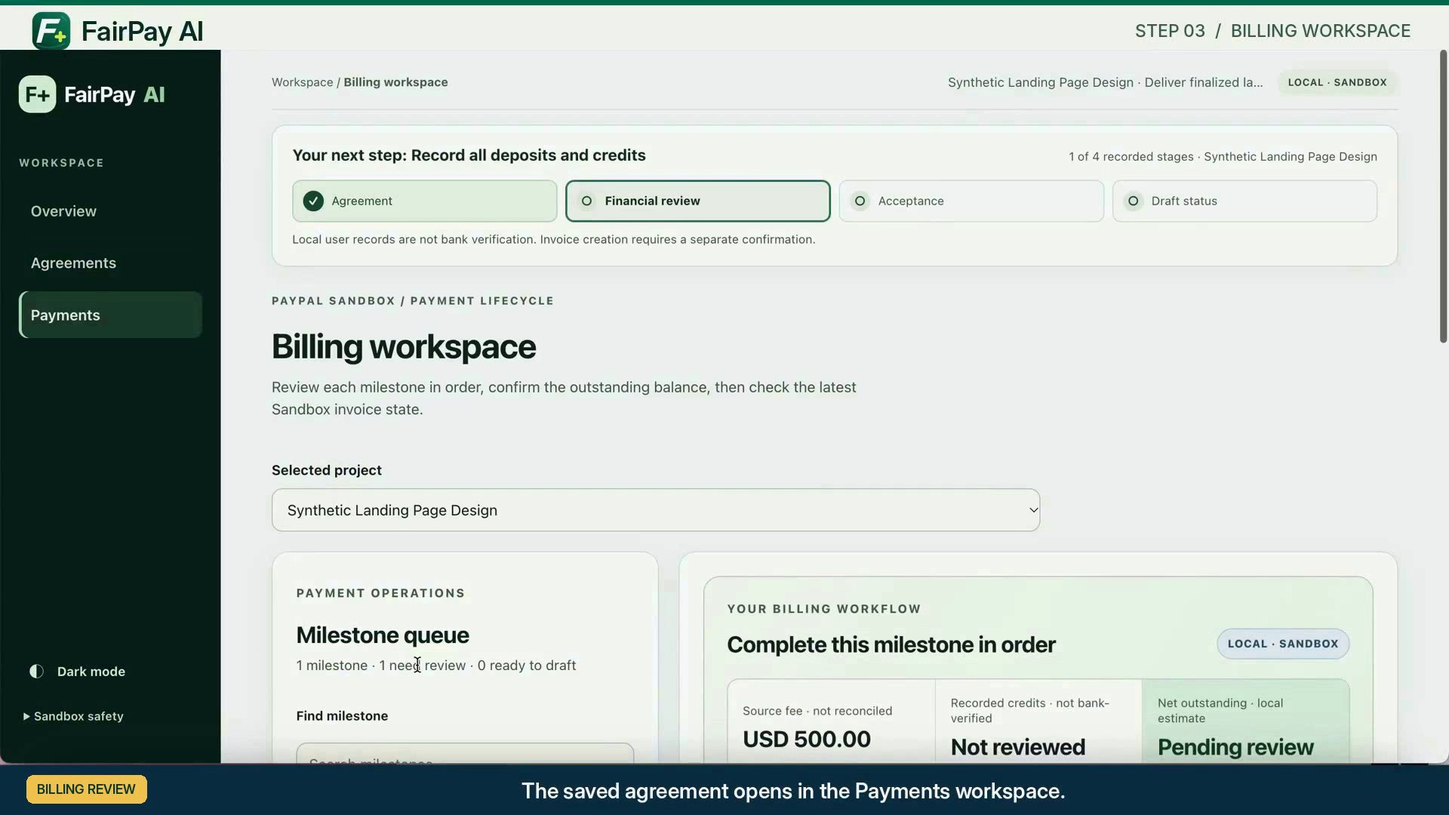
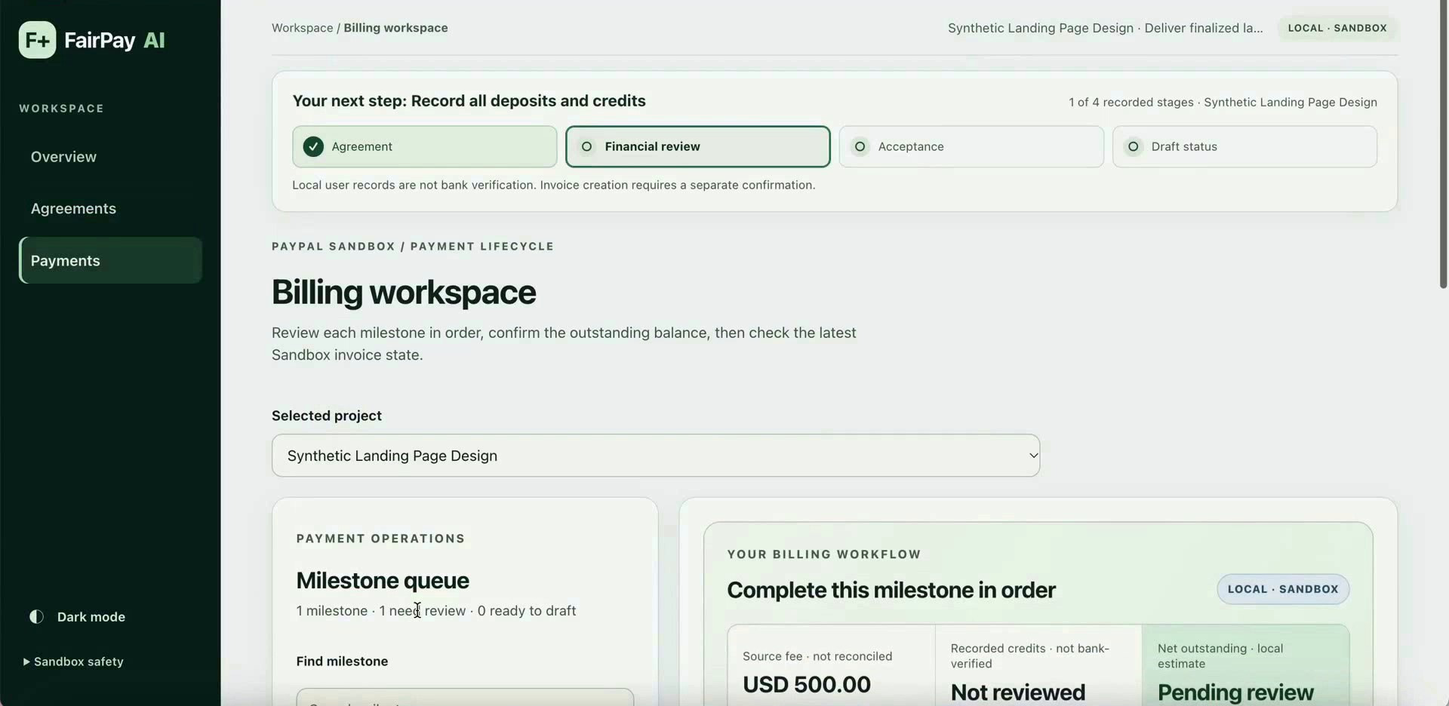
docs: refine judge-facing guides, crop genuine demo still and clarify release labels

diff --git a/FairPay/DEMO_GUIDE.md b/FairPay/DEMO_GUIDE.md
@@ -1,14 +1,29 @@
-# Synthetic demo — no PayPal writes
-1. Launch fresh copy; Projects starts empty. Open Add agreement and select existing sample or paste: “Synthetic review sample. Milestone 1: Deliver one poster for USD 200 after actual client acceptance. No prior payments are asserted by this sample.”
-2. Without Ollama, stop at source intake: this is NOT a complete offline extraction demo. With separately installed local model, analyze, inspect source quote and save with explicit evidence consent.
-3. Billing: record synthetic financial review (all known payments/credits), then separately record acceptance for this fictional example. These are human records, not verified payments/identity.
-4. Review exact net amount and recipient preview. STOP BEFORE CREATE. Do not enter credentials or invoke PayPal.
-5. Offline illustrative outcome: “Synthetic illustration only — DRAFT · Not sent; no provider ID, no API call, no payment.” This sentence is a storyboard, never insert it into project invoice records.
-For an executable isolated mock flow run `node --test tests/v1985-fault-boundaries.test.mjs`: concurrency, ambiguous write, recipient mismatch are tested against local stubs. Terminal test output is not real provider evidence.
+# FairPay AI · Safe reviewer demo
 
+**Audience:** reviewers with a fresh local installation. The samples are fictional. Never use real contracts, live PayPal credentials, or real funds.
 
-## Sprint B reviewer-first demonstration (read-only)
+## Track A · Explore without AI or PayPal
 
-From a brand-new clean install, open Overview → **Preview two safe billing decisions**. Example A shows fictional **USD 500 gross − USD 100 human-recorded deposit = USD 400 calculated outstanding**. Neither the credit nor acceptance is externally verified. Example B shows an **unsigned USD 600→700** fee change requiring verification. Use the two buttons to prefill the editable agreement; **prefill triggers no backend write and no AI analysis**. Review the real output only if Ollama is separately running. If the local model is absent, honestly show the setup notice and storyboard rather than claiming successful extraction. 
+1. Install Node.js 22+ and run `npm run setup` then `npm start` from `FairPay/`.
+2. Open `http://127.0.0.1:3000`. Starting with **zero saved projects** is expected.
+3. In **Overview**, expand **Preview two safe billing decisions**.
+4. **Clear-fee sample** illustrates a $500 fee, a $100 human-recorded *illustrative* credit, and a calculated $400 outstanding balance. The credit is not independently verified, and previewing it does not store a ledger entry.
+5. **Conflict sample** illustrates original $600 terms and an unsigned $700 change. The unsigned proposal is not automatically approved.
+6. Select **Try clear-fee sample** or **Try conflict sample** to fill editable synthetic agreement text. **Preview and prefill do not call AI, save a project, or contact PayPal.**
 
-On the Billing workspace, distinguish **source fee**, **human-recorded ledger gross/credits/net**, **local policy eligibility**, and **existing PayPal read-back status**. DRAFT ≠ SENT ≠ PAID. Do not click Create Draft during the recorded safe demonstration; do not claim that the local storyboard is a provider integration test. Existing historical PayPal Sandbox data requires separate ID/recipient/authorization verification before presentation as real E2E evidence. See `docs/sprint-b/FINAL_SCOPE_AND_DEMO.md` for manual Mac checks. No synthetic credits or acceptance records are created by previewing examples.
+## Track B · Optional actual local AI analysis
+
+1. Install and start Ollama; run `ollama pull qwen3:4b-instruct`.
+2. In **Agreements**, load the fictional sample and click **Analyze**.
+3. Compare the model's candidate amount and quoted source excerpt with the actual text. Do not treat a proposal as verified authority. Model outcomes can vary.
+4. Save only with explicit source review. If continuing to a synthetic billing review, create only fictional project, credit, and acceptance records. **Stop before Create Draft** in the recommended safe walkthrough.
+
+## PayPal example in the final video
+
+The submitted V31 video includes a **different, existing PayPal Sandbox project** with a $400 DRAFT read-back. It is not a continuation of the blocked-review sample. The $100 credit was entered by a person and is not bank-verified. The invoice was not sent or paid. **The private historical invoice ID, merchant credentials, and local ledger are intentionally excluded from this public checkout.**
+
+The product includes deliberately authorized Sandbox draft handling, but no provider API calls are required to follow these safe examples. For optional provider setup with **your own** test merchant, consult [Developer Guide](../docs/DEVELOPER_GUIDE.md); do not recreate the original invoice for demonstration.
+
+## What these steps do not establish
+
+Sample preview is not model extraction. Local synthetic records are not confirmed buyer acceptance or bank settlement. Automated provider mocks do not certify an end-to-end real payment. The public code is not production-ready. See [Validation and Limitations](../docs/VALIDATION.md).

diff --git a/FairPay/README_START_HERE.md b/FairPay/README_START_HERE.md
@@ -1,21 +1,35 @@
-# FairPay dev8.6 Sprint B Clean Candidate
-NON-RELEASE / SANDBOX ONLY. 本包不含私人資料、Git、Node binary 或模型；Node >=22 必須另行安裝，Python3 用於驗證／歷史測試 runner。App 使用 Node 內建模組，無需 npm install。
+# FairPay AI · Local build guide
 
-在全新空白資料夾解壓，進入 FairPay：
-```sh
-node --version
-python3 tools/verify-clean.py
+This is the runnable **local Sandbox prototype**, not a production payment app. For a quick introduction, begin with the [root README](../README.md), then choose the [User Guide](../docs/USER_GUIDE.md) or [Developer Guide](../docs/DEVELOPER_GUIDE.md).
+
+## First run
+
+Install **Node.js 22+** and run these commands from this `FairPay/` folder.
+
+```bash
 npm run setup
 npm start
 ```
-手動開啟 http://127.0.0.1:3000 。初始0 projects正常；不需任何舊 FairPay 目錄。setup只建立本資料夾空白credentials設定，不覆寫既有設定。不要複製舊資料或真實credentials。本工作包禁止所有真實PayPal寫入。
 
-選用AI：本機Ollama及qwen3:4b-instruct需另行安裝／下載；沒有模型時可看UI和輸入合成範例，不能宣稱完成抽取。Optional OpenAI會把合約送到雲端，本次不設定或測試。PayPal Sandbox API另需帳號／網路／獨立授權；本次僅mock，不要求填密鑰。
+Open **http://127.0.0.1:3000**. Fresh installations start with **zero projects**. On **Overview**, select **Preview two safe billing decisions**. These controls only populate synthetic examples. They do not run the model, save projects, authorize billing, create drafts, or confirm a credit.
 
-QA: `npm run qa:dev8.5` 是focused suite，不是完整歷史測試；`npm test` 保留所有舊測試，已知不綠。詳QA_STATUS.md。測試不應使用真實資料。Ctrl-C停止server；本版.local-data只屬本版，勿分享。
+## Optional AI and Sandbox setup
 
-完整離線 automated QA: `npm run qa:dev8.6` (mock providers)。需要 Python3 的 manifest/scanner 不會下載任何服務。Clean Candidate 保留舊 inventory驗證以展示歷史差異；`verify:package`預期失敗，`verify:candidate`才是本包完整性檢查。不要以重建舊hash掩飾差異。
+- For real AI extraction, install and start local Ollama and pull the model with `ollama pull qwen3:4b-instruct`.
+- To test PayPal integration, provide **your own PayPal Sandbox** credentials in the untracked `.env`, only for deliberate actions on new fictional data.
+- Never enter real client agreements or live credentials. Do not use this app for real payments or public hosting.
+- No historical invoice ID, local ledger, or PayPal account data is bundled. A fresh installation cannot reproduce the video's private $400 Sandbox draft read-back.
 
-Final Sprint B current QA: `npm run qa:sprint-a`. Read docs/sprint-a for current-contract tests, model false-block denominators and existing-draft read-only checklist. Real linkage is INCOMPLETE; no PayPal write is authorized. `productVersion` is current; `appVersion` is compatibility-only.
+## Check the source
 
-Sprint B final demo instructions: `docs/sprint-b/FINAL_SCOPE_AND_DEMO.md`. The overview provides two fictional examples, neither a real PayPal transaction. Onboarding and local balance display changes do not alter backend financial policy. Browser execution may require your Mac if administrator policy blocks automated navigation.
+```bash
+npm run qa:sprint-b
+npm run verify:candidate
+npm run scan:release
+```
+
+These commands check a **focused** regression suite, file hashes, and obvious accidental-secret patterns. They do not certify production readiness or prove remote bank settlement. `npm test` invokes an older broader suite with documented failures. See [Validation](../docs/VALIDATION.md) and [QA history](QA_STATUS.md).
+
+**Build identifiers:** the current internal application identifier is `1.9.1-dev.8.6-sprint-b`, while the submitted video is V31. The API `appVersion` field is a separate legacy compatibility marker; do not rewrite it for presentation purposes.
+
+The former multi-Sprint Chinese handoff text is archived under [Historical documents](../docs/archive/README.md) and is not the current run instruction.

diff --git a/FairPay/ARCHITECTURE.md b/FairPay/ARCHITECTURE.md
@@ -1,2 +1,53 @@
-# Architecture
-Browser public/ → loopback Node server.mjs → deterministic source policy, contract-invariants, receivables, project-model → project-store atomic local JSON. Agreement versions and ledger revisions bind human acceptance and exact net authorization. paypal-adapter performs Sandbox readback and unknown-write lockout. AI extracts untrusted candidate terms; it has no financial authority. Evaluation/scorer uses synthetic workflow simulation, not external verification. No npm runtime dependencies; Node >=22 required. PDF/DOCX import may depend on platform utilities; paste text is the portable starting path.
+# FairPay AI · Architecture
+
+**Scope:** single-user Node.js application running at `127.0.0.1`. Local JSON persistence and PayPal Sandbox only. Not a production payment system.
+
+## Processing flow
+
+```text
+Agreement text / supported document
+                |
+                v
+Local Ollama + Qwen3:4b-instruct proposes terms and source excerpts
+                |
+                v
+Source verification + deterministic contract and financial rules
+                |
+                v
+Human-recorded financial review and actual acceptance attestation
+                |
+                v
+Exact amount, currency, revision and authorization checks
+                |
+                v
+Explicit PayPal Sandbox DRAFT operation, then provider read-back
+                |
+                v
+Stored history and conservative reconciliation status
+```
+
+AI outputs are **untrusted candidate terms**. Financial authorization is controlled by deterministic application rules and deliberate human actions. DRAFT is not SENT or PAID; human-entered credits are not bank-confirmed receipts.
+
+## Key implementation boundaries
+
+| Module | Purpose |
+| --- | --- |
+| `server.mjs` | Local HTTP server, JSON API, analysis sessions, integration orchestration |
+| `public/` | Browser Overview, Agreements and Payments UI |
+| `agreement-evidence.mjs` | Agreement source evidence and version references |
+| `contract-invariants.mjs` | Agreement and billing invariants |
+| `financial-policy.mjs` | Deterministic financial eligibility and conservative blockers |
+| `receivables.mjs` | Gross, recorded credits and calculated outstanding amounts |
+| `project-model.mjs`, `project-store.mjs` | Project state and local persisted records |
+| `paypal-adapter.mjs`, `payment-integrity.mjs` | Sandbox provider interaction, status checking and reconciliation |
+| `tests/`, `evaluation/`, `audit/` | Regressions, synthetic evaluation and adversarial checks |
+
+## Setup and portability
+
+The application uses Node.js 22+ and built-in Node modules. AI extraction requires a separately running Ollama instance and model. The default model is `qwen3:4b-instruct`. Browser access is local. PayPal Sandbox testing requires separately provisioned credentials and deliberate authorization.
+
+Text paste is the most portable agreement input. DOCX import uses the host `unzip` tool; text-based PDF import requires macOS PDFKit. Scanned PDFs are not OCR-processed. See [Developer Guide](../docs/DEVELOPER_GUIDE.md) for exact limits and setup steps.
+
+## Security and evidence
+
+Local storage is not production encrypted. The app does not independently verify buyer identity, credit settlement, or real bank payments. Mock provider tests cannot prove external payment state. The final demonstration includes a separately maintained historical Sandbox draft unavailable in a fresh checkout. See [Validation](../docs/VALIDATION.md) and [Security and Privacy](SECURITY_AND_PRIVACY.md).

diff --git a/FairPay/SECURITY_AND_PRIVACY.md b/FairPay/SECURITY_AND_PRIVACY.md
@@ -1,4 +1,24 @@
-# Security and privacy
-NON-RELEASE, single-user loopback only; Host/Origin checks are not multi-tenant authentication. Do not expose publicly. Never supply real credentials, private agreements or financial records in this review. PayPal writes of every kind are prohibited in this engineering task; all automated financial tests use loopback mocks.
-Gross fee ≠ outstanding receivable ≠ authorized amount. Human-recorded credit is not bank-verified receipt; recorded acceptance does not authenticate a buyer. DRAFT is unsent, UNKNOWN remains blocked, stored PAID is not bank settlement proof. Retain current ledger/version/exact amount/currency/caps/idempotency checks.
-Local .local-data is not encrypted; store synthetic data only. Delete only your explicitly selected synthetic local data after stopping this copy if desired; never merge historical stores. Source ZIP excludes private state and Git. Scanner checks obvious patterns and forbidden paths, not forensic PII certification. Optional cloud AI sends source text externally; default Ollama is local. No telemetry claim beyond inspected application behavior; browser/provider services have their own policies.
+# FairPay AI · Security and privacy
+
+**NON-RELEASE / SANDBOX ONLY.** Runs on the local loopback interface. Do not expose this service to the public internet or use it with live payments or real client records.
+
+## Data handling
+
+- Saved projects, agreement versions and ledger records are held locally, without production-grade encryption.
+- Use **synthetic** agreements, identities, credits and approvals. Do not store bank details, customer contracts or sensitive personal records in this prototype.
+- The `.env` file is local and excluded from Git. Never commit PayPal client credentials, authorization tokens or private Sandbox invoice IDs.
+- Default AI extraction uses local Ollama. If a cloud AI provider is configured separately, submitted agreement text may leave the local machine; treat this as a distinct privacy decision.
+
+## Financial safety boundary
+
+- An AI-proposed term is not an authorized invoice. Source excerpts, financial reconciliation and explicit human decisions are separate inputs.
+- A contract gross amount is different from outstanding receivables and the exact authorized draft amount.
+- A human-recorded credit is **not** bank-confirmed receipt, and a recorded acceptance is **not** verified buyer identity.
+- DRAFT is not SENT or PAID. UNKNOWN and malformed provider read-backs must not be treated as proof of payment.
+- The application includes checks for version, amount, currency, local reviews and duplicate/uncertain operations, but does not provide production-grade distributed transactions or independent settlement verification.
+
+## Testing and audit scope
+
+Automated provider tests use loopback mocks and fictional data. An earlier isolated security review prohibited external PayPal writes, while the product contains an explicitly authorized **Sandbox-only** draft workflow for deliberate testing. Those are different scopes. The V31 demo's existing private Sandbox draft cannot be independently reproduced from a fresh public clone.
+
+A source scan checks certain obvious secret patterns and forbidden paths, not forensic privacy or security compliance. See [Validation and Limitations](../docs/VALIDATION.md) for test-scope and evidence gaps.

diff --git a/docs/DEVELOPER_GUIDE.md b/docs/DEVELOPER_GUIDE.md
@@ -91,7 +91,7 @@ See [Architecture](../FairPay/ARCHITECTURE.md) and [Security & Privacy](../FairP
 - Application build is `1.9.1-dev.8.6-sprint-b` in `package.json` and `VERSION.txt`.
 - The public demo video's **V31** label is a video editing version, not the application build.
 - `appVersion: 1.3.2` in `/api/health` is a legacy compatibility field. Use `productVersion` for the candidate identifier.
-- A `v0.4` comment in `.env.example` and historical `qa:dev*` scripts were retained intentionally. Do not replace version identifiers in test fixtures or manifests merely to make their labels look new.
+- The outdated `v0.4` header in `.env.example` has been removed. Historical `qa:dev*` scripts and versioned test names remain for provenance. Do not change package build identifiers, the legacy `/api/health` compatibility field, frozen test names, or the historical `SOURCE_SHA256_MANIFEST.json` merely to make labels look new.
 - Use **`npm run qa:sprint-b`** for the documented focused check. Running **`npm test`** triggers the historical suite, which includes documented failing cases.
 
 ## Run focused checks
@@ -106,8 +106,19 @@ npm run scan:release
 
 The earlier release reported **161 passing focused checks**, but this is **not** an all-green full historical suite. Some legacy tests still have documented failures. Provider fault tests use synthetic mocks. This documentation-only change has **not rerun** the checks. See [Validation & Limitations](VALIDATION.md).
 
-**Integrity note.** `FairPay/CANDIDATE_MANIFEST.json` stores hashes for released candidate files. Do not edit or move files inside `FairPay/` without intentionally revalidating the package. This documentation update preserves those files exactly.
+**Integrity note.** `FairPay/CANDIDATE_MANIFEST.json` stores hashes for released candidate files. Do not edit or move files inside `FairPay/` without intentionally revalidating the package. This patch updates only selected documentation files and the environment-template comments inside `FairPay/`. Its `CANDIDATE_MANIFEST.json` entries are recalculated and `verify:candidate` must pass after applying the patch. No runtime logic, application versions, or test fixtures are changed.
 
 ## Operating boundaries
 
 Single user. Synthetic records. Local unencrypted persistence. No production-grade authentication, independent bank reconciliation, verified buyer identity, public deployment safety, or guaranteed provider transaction recovery. DRAFT is not PAID; ambiguous states must fail closed.
+
+## Reviewer troubleshooting
+
+| Symptom | First check |
+| --- | --- |
+| Empty projects after first launch | Expected. A fresh clone has no saved local data. Use Overview sample previews. |
+| AI Analyze cannot run | Start Ollama and confirm the `qwen3:4b-instruct` model is installed. |
+| PDF import fails outside macOS | Use text paste, TXT, MD, or DOCX with `unzip` installed. |
+| Historical $400 draft is not shown | Expected. Historical private project data and Sandbox ID are not included. |
+| `npm test` reports legacy failures | Do not hide them. Run `npm run qa:sprint-b` and inspect [Validation](VALIDATION.md). |
+| Manifest verification fails after editing `FairPay/` | Check which file changed. Do not regenerate historical expected results as a workaround. |

diff --git a/FairPay/KNOWN_LIMITATIONS.md b/FairPay/KNOWN_LIMITATIONS.md
@@ -1,4 +1,23 @@
-# Known limitations
-Full historical tests are not green; see accompanying legacy triage. No production deployment, buyer authentication, bank receipt verification, multi-process transaction guarantee or real-payment readiness. Native browser/VoiceOver and user-study checks remain unverified. Local Ollama optional dependency; offline UI is not full AI extraction. Provider fault checks are mocks. No live PayPal write is authorized. Candidate excludes historical manuals/restore scripts and old screenshot reports; engineering Git history remains in handoff only.
+# FairPay AI · Known limitations
 
-Sprint B: Chromium navigation in the isolated review container was blocked by administrator policy; screenshots and native UI visual pass are **NOT VERIFIED** this iteration. Manual desktop/phone/light/dark/keyboard checks required on Mac. No new live Ollama accuracy benchmarking, real PayPal read-back or provider write. Synthetic on-screen credit of USD 100 is an illustration, not a stored ledger record or deposit verification.
+**Prototype status:** local, single-user, synthetic-data only. PayPal **Sandbox**, not live payment processing. The application is not production-ready.
+
+## Product limitations
+
+- No production-grade identity or access control, verified buyer identity, independent bank settlement verification, or safe hosted deployment.
+- Project and agreement records are persisted locally without production encryption. Do not use real client documents or personal payment data.
+- Local AI extraction requires a separately running Ollama model. Model results can vary, and proposals require source checking.
+- The UI can prefill synthetic example text without AI. That prefill is **not** a successful AI extraction.
+- Recorded client acceptance and credits are user attestations, not external confirmation of buyer approval or a bank-verified payment.
+- A PayPal Sandbox invoice **DRAFT** is unsent and unpaid. Ambiguous or malformed provider results should not be accepted as proof of payment.
+- Native accessibility, real user studies, and broad model-accuracy benchmarking are not validated for this submission.
+
+## Reproducibility boundaries
+
+- The public source contains no historic local project records, private PayPal invoice reference, merchant credentials or historical authorization state.
+- The V31 video shows a separate existing $400 Sandbox DRAFT. Earlier isolated QA could not independently perform a remote read-back of that private record.
+- Synthetic provider mocks test selected fail-closed behavior, not external financial settlement.
+- Some historical isolated QA reports reference external Evidence ZIPs and logs not published in this repository.
+- The historical full-suite results include failures and timeouts; focused regressions are a separate scope. See [Validation and Limitations](../docs/VALIDATION.md).
+
+The application has code for explicitly authorized **Sandbox** draft creation and read-back, but the earlier isolated engineering audit did **not** authorize or perform external Sandbox writes. That audit restriction should not be confused with a claim that the product cannot support deliberate Sandbox testing.

diff --git a/README.md b/README.md
@@ -10,9 +10,9 @@ FairPay AI helps users review agreement terms, check billing amounts against the
 
 ## Product preview
 
-![FairPay AI agreement evidence review, captured from the final V31 product demo](assets/fairpay-v31-agreement-demo.jpg)
+![FairPay AI Agreements interface showing source evidence review](assets/fairpay-v31-agreement-demo.jpg)
 
-*Agreement evidence review shown in the [V31 demo video](https://www.youtube.com/watch?v=pivk3KyXpEQ). This is a recorded demonstration frame, not a hosted live app.*
+*Agreement evidence review shown in the [V31 demo video](https://www.youtube.com/watch?v=pivk3KyXpEQ). This is a crop of the actual recorded product interface, with the video presentation bars removed. It is not a hosted live app.*
 
 ## Product overview
 
@@ -44,7 +44,7 @@ These are **separate demonstration scenarios**, not a single completed or bank-v
 | `appVersion: 1.3.2` | Legacy API compatibility field | Not the current product release number |
 | Release status | Local hackathon prototype | Not deployed for real payments |
 
-Some engineering files contain older version names because they preserve earlier test history. Use this root README and the [Developer Guide](docs/DEVELOPER_GUIDE.md) for current setup instructions.
+Older version numbers in test filenames, historical manifests, and the legacy API field are retained for compatibility and audit history. The obsolete `v0.4` environment-template comment and stale handoff instructions were corrected in this documentation cleanup. Use this README and the [Developer Guide](docs/DEVELOPER_GUIDE.md) for current setup instructions.
 
 ## Quick start
 
@@ -99,7 +99,7 @@ For a step-by-step first-time walkthrough, use the [User Guide](docs/USER_GUIDE.
 
 ## Evidence and limitations
 
-The release README previously reported **161 passing checks in the focused QA suite**. That is **not** a claim that all historical tests pass. Historical failures, incomplete browser checks, and provider-evidence boundaries remain documented. The documentation cleanup **does not rerun tests**.
+The release documentation reports **161 passing checks in the focused QA suite**. That is **not** a claim that all historical tests pass. Historical failures, incomplete browser checks, and provider-evidence boundaries remain documented. This repository documentation update **does not itself establish a new test run**. Run the commands in [Validation & Limitations](docs/VALIDATION.md) to reproduce the focused checks.
 
 The video depicts a separate existing Sandbox DRAFT read-back. Earlier isolated engineering QA **did not independently access the private Sandbox invoice**, so its remote verification result remains recorded as **incomplete**. The synthetic credit is not a bank-confirmed deposit. See [Validation & Limitations](docs/VALIDATION.md) and [Security & Privacy](FairPay/SECURITY_AND_PRIVACY.md).
 

diff --git a/docs/archive/FairPay_DEMO_GUIDE_HISTORICAL.md b/docs/archive/FairPay_DEMO_GUIDE_HISTORICAL.md
@@ -1,0 +1,14 @@
+# Synthetic demo — no PayPal writes
+1. Launch fresh copy; Projects starts empty. Open Add agreement and select existing sample or paste: “Synthetic review sample. Milestone 1: Deliver one poster for USD 200 after actual client acceptance. No prior payments are asserted by this sample.”
+2. Without Ollama, stop at source intake: this is NOT a complete offline extraction demo. With separately installed local model, analyze, inspect source quote and save with explicit evidence consent.
+3. Billing: record synthetic financial review (all known payments/credits), then separately record acceptance for this fictional example. These are human records, not verified payments/identity.
+4. Review exact net amount and recipient preview. STOP BEFORE CREATE. Do not enter credentials or invoke PayPal.
+5. Offline illustrative outcome: “Synthetic illustration only — DRAFT · Not sent; no provider ID, no API call, no payment.” This sentence is a storyboard, never insert it into project invoice records.
+For an executable isolated mock flow run `node --test tests/v1985-fault-boundaries.test.mjs`: concurrency, ambiguous write, recipient mismatch are tested against local stubs. Terminal test output is not real provider evidence.
+
+
+## Sprint B reviewer-first demonstration (read-only)
+
+From a brand-new clean install, open Overview → **Preview two safe billing decisions**. Example A shows fictional **USD 500 gross − USD 100 human-recorded deposit = USD 400 calculated outstanding**. Neither the credit nor acceptance is externally verified. Example B shows an **unsigned USD 600→700** fee change requiring verification. Use the two buttons to prefill the editable agreement; **prefill triggers no backend write and no AI analysis**. Review the real output only if Ollama is separately running. If the local model is absent, honestly show the setup notice and storyboard rather than claiming successful extraction. 
+
+On the Billing workspace, distinguish **source fee**, **human-recorded ledger gross/credits/net**, **local policy eligibility**, and **existing PayPal read-back status**. DRAFT ≠ SENT ≠ PAID. Do not click Create Draft during the recorded safe demonstration; do not claim that the local storyboard is a provider integration test. Existing historical PayPal Sandbox data requires separate ID/recipient/authorization verification before presentation as real E2E evidence. See `docs/sprint-b/FINAL_SCOPE_AND_DEMO.md` for manual Mac checks. No synthetic credits or acceptance records are created by previewing examples.

diff --git a/docs/archive/FairPay_README_START_HERE_HISTORICAL.md b/docs/archive/FairPay_README_START_HERE_HISTORICAL.md
@@ -1,0 +1,21 @@
+# FairPay dev8.6 Sprint B Clean Candidate
+NON-RELEASE / SANDBOX ONLY. 本包不含私人資料、Git、Node binary 或模型；Node >=22 必須另行安裝，Python3 用於驗證／歷史測試 runner。App 使用 Node 內建模組，無需 npm install。
+
+在全新空白資料夾解壓，進入 FairPay：
+```sh
+node --version
+python3 tools/verify-clean.py
+npm run setup
+npm start
+```
+手動開啟 http://127.0.0.1:3000 。初始0 projects正常；不需任何舊 FairPay 目錄。setup只建立本資料夾空白credentials設定，不覆寫既有設定。不要複製舊資料或真實credentials。本工作包禁止所有真實PayPal寫入。
+
+選用AI：本機Ollama及qwen3:4b-instruct需另行安裝／下載；沒有模型時可看UI和輸入合成範例，不能宣稱完成抽取。Optional OpenAI會把合約送到雲端，本次不設定或測試。PayPal Sandbox API另需帳號／網路／獨立授權；本次僅mock，不要求填密鑰。
+
+QA: `npm run qa:dev8.5` 是focused suite，不是完整歷史測試；`npm test` 保留所有舊測試，已知不綠。詳QA_STATUS.md。測試不應使用真實資料。Ctrl-C停止server；本版.local-data只屬本版，勿分享。
+
+完整離線 automated QA: `npm run qa:dev8.6` (mock providers)。需要 Python3 的 manifest/scanner 不會下載任何服務。Clean Candidate 保留舊 inventory驗證以展示歷史差異；`verify:package`預期失敗，`verify:candidate`才是本包完整性檢查。不要以重建舊hash掩飾差異。
+
+Final Sprint B current QA: `npm run qa:sprint-a`. Read docs/sprint-a for current-contract tests, model false-block denominators and existing-draft read-only checklist. Real linkage is INCOMPLETE; no PayPal write is authorized. `productVersion` is current; `appVersion` is compatibility-only.
+
+Sprint B final demo instructions: `docs/sprint-b/FINAL_SCOPE_AND_DEMO.md`. The overview provides two fictional examples, neither a real PayPal transaction. Onboarding and local balance display changes do not alter backend financial policy. Browser execution may require your Mac if administrator policy blocks automated navigation.

diff --git a/docs/VALIDATION.md b/docs/VALIDATION.md
@@ -15,7 +15,7 @@ This page clarifies the scope of evidence from different engineering checkpoints
 | V31 product demo | Recorded app behavior and a separate existing Sandbox DRAFT read-back | Independent remote verification by the earlier isolated QA environment |
 | Static UI and isolated checks | Limited visual and structural checks | Complete native-browser, accessibility, or user-study verification |
 
-**The documentation update has not rerun automated tests or performed a new live PayPal read-back.** Reproduce the focused results using the source code below.
+**The documentation update itself does not rerun automated tests or perform a new live PayPal read-back.** The update script requires a local manifest check and attempts the focused suite before committing; its output on your machine is the relevant new evidence. Reproduce the focused results using the source code below.
 
 ## Three different demo scenarios
 
@@ -50,6 +50,15 @@ npm run scan:release
 ```
 
 The focused QA alias is defined in `package.json`. `verify:candidate` hashes released files against `CANDIDATE_MANIFEST.json`. The source scanner looks for obvious forbidden paths and secrets; it is not a forensic PII audit.
+
+## Understanding source and manifest versions
+
+- **Current build identity** remains `1.9.1-dev.8.6-sprint-b` in `FairPay/package.json` and `FairPay/VERSION.txt`.
+- **V31** identifies the submitted video edit, not an app version.
+- **`appVersion: 1.3.2`** is a legacy API compatibility field; `productVersion` identifies the current build.
+- **`SOURCE_SHA256_MANIFEST.json`** is a historical source inventory. It must not be silently rewritten to represent the updated public README.
+- **`CANDIDATE_MANIFEST.json`** is the current file-integrity inventory used by `verify:candidate`. The patch recomputes only entries for edited non-runtime documents and template comments.
+- Version numbers in old test filenames and Sprint records are retained because they identify real engineering checkpoints, not UI copy.
 
 ## Remaining limitations
 

diff --git a/docs/archive/README.md b/docs/archive/README.md
@@ -7,4 +7,12 @@ These files are retained as historical records. They are **not the current produ
 - [FINAL_UI_QA_2026-11-01.md](FINAL_UI_QA_2026-11-01.md) — dated visual QA checkpoint.
 - [SUBMISSION_CHECKLIST.md](SUBMISSION_CHECKLIST.md) — historical pre-submission checklist.
 
-The files are moved without rewriting their historical contents. Use the [main README](../../README.md), [User Guide](../USER_GUIDE.md), [Developer Guide](../DEVELOPER_GUIDE.md), and [Validation & Limitations](../VALIDATION.md) for the current public-facing navigation.
+Additional archived original candidate notes, preserved before the current clarity cleanup:
+
+- [FairPay_README_START_HERE_HISTORICAL.md](FairPay_README_START_HERE_HISTORICAL.md) — original multi-Sprint handoff with stale version references.
+- [FairPay_DEMO_GUIDE_HISTORICAL.md](FairPay_DEMO_GUIDE_HISTORICAL.md) — original multi-scenario demo notes.
+- [FairPay_ARCHITECTURE_HISTORICAL.md](FairPay_ARCHITECTURE_HISTORICAL.md) — prior compact architecture summary.
+- [FairPay_KNOWN_LIMITATIONS_HISTORICAL.md](FairPay_KNOWN_LIMITATIONS_HISTORICAL.md) — original scoped limitations.
+- [FairPay_SECURITY_AND_PRIVACY_HISTORICAL.md](FairPay_SECURITY_AND_PRIVACY_HISTORICAL.md) — original scoped engineering security note.
+
+The original contents of all archive files have been preserved; old checklists, evidence gaps and historical scope remain visible. The previous submission drafts were moved without rewriting their historical contents. Use the [main README](../../README.md), [User Guide](../USER_GUIDE.md), [Developer Guide](../DEVELOPER_GUIDE.md), and [Validation & Limitations](../VALIDATION.md) for the current public-facing navigation.

diff --git a/docs/README.md b/docs/README.md
@@ -2,6 +2,13 @@
 
 Watch the **[final three-minute product demo](https://www.youtube.com/watch?v=pivk3KyXpEQ)** first, then choose the guide for your role.
 
+**Recommended reading order for judges**
+
+1. Watch the [2:58 product demo](https://www.youtube.com/watch?v=pivk3KyXpEQ).
+2. Read the [product overview](../README.md#product-overview) and [User Guide](USER_GUIDE.md) to understand the three real screens.
+3. Use [Developer Guide](DEVELOPER_GUIDE.md) for the runnable build and reproducible sample.
+4. Check [Validation & Limitations](VALIDATION.md) to separate recorded evidence, test coverage, and known gaps.
+
 Choose the starting point for your role.
 
 | Audience | Main guide | What it covers |
@@ -23,3 +30,7 @@ Choose the starting point for your role.
 - [繁體中文使用指引](zh/GET_STARTED_ZH.md)
 
 Existing documents under `FairPay/` are integrity-checked release artifacts and preserve historical checkpoints. The [Validation & Limitations](VALIDATION.md) page explains differences between earlier QA results and the final demo.
+
+**Preservation note:** historical candidate source and versioned test assets under `FairPay/` remain intact. Some original handoff notes are archived rather than removed.
+
+The original internal handoff note remains available in [Archived handoff](archive/FairPay_README_START_HERE_HISTORICAL.md). It is retained for provenance, not recommended as current setup instructions.
